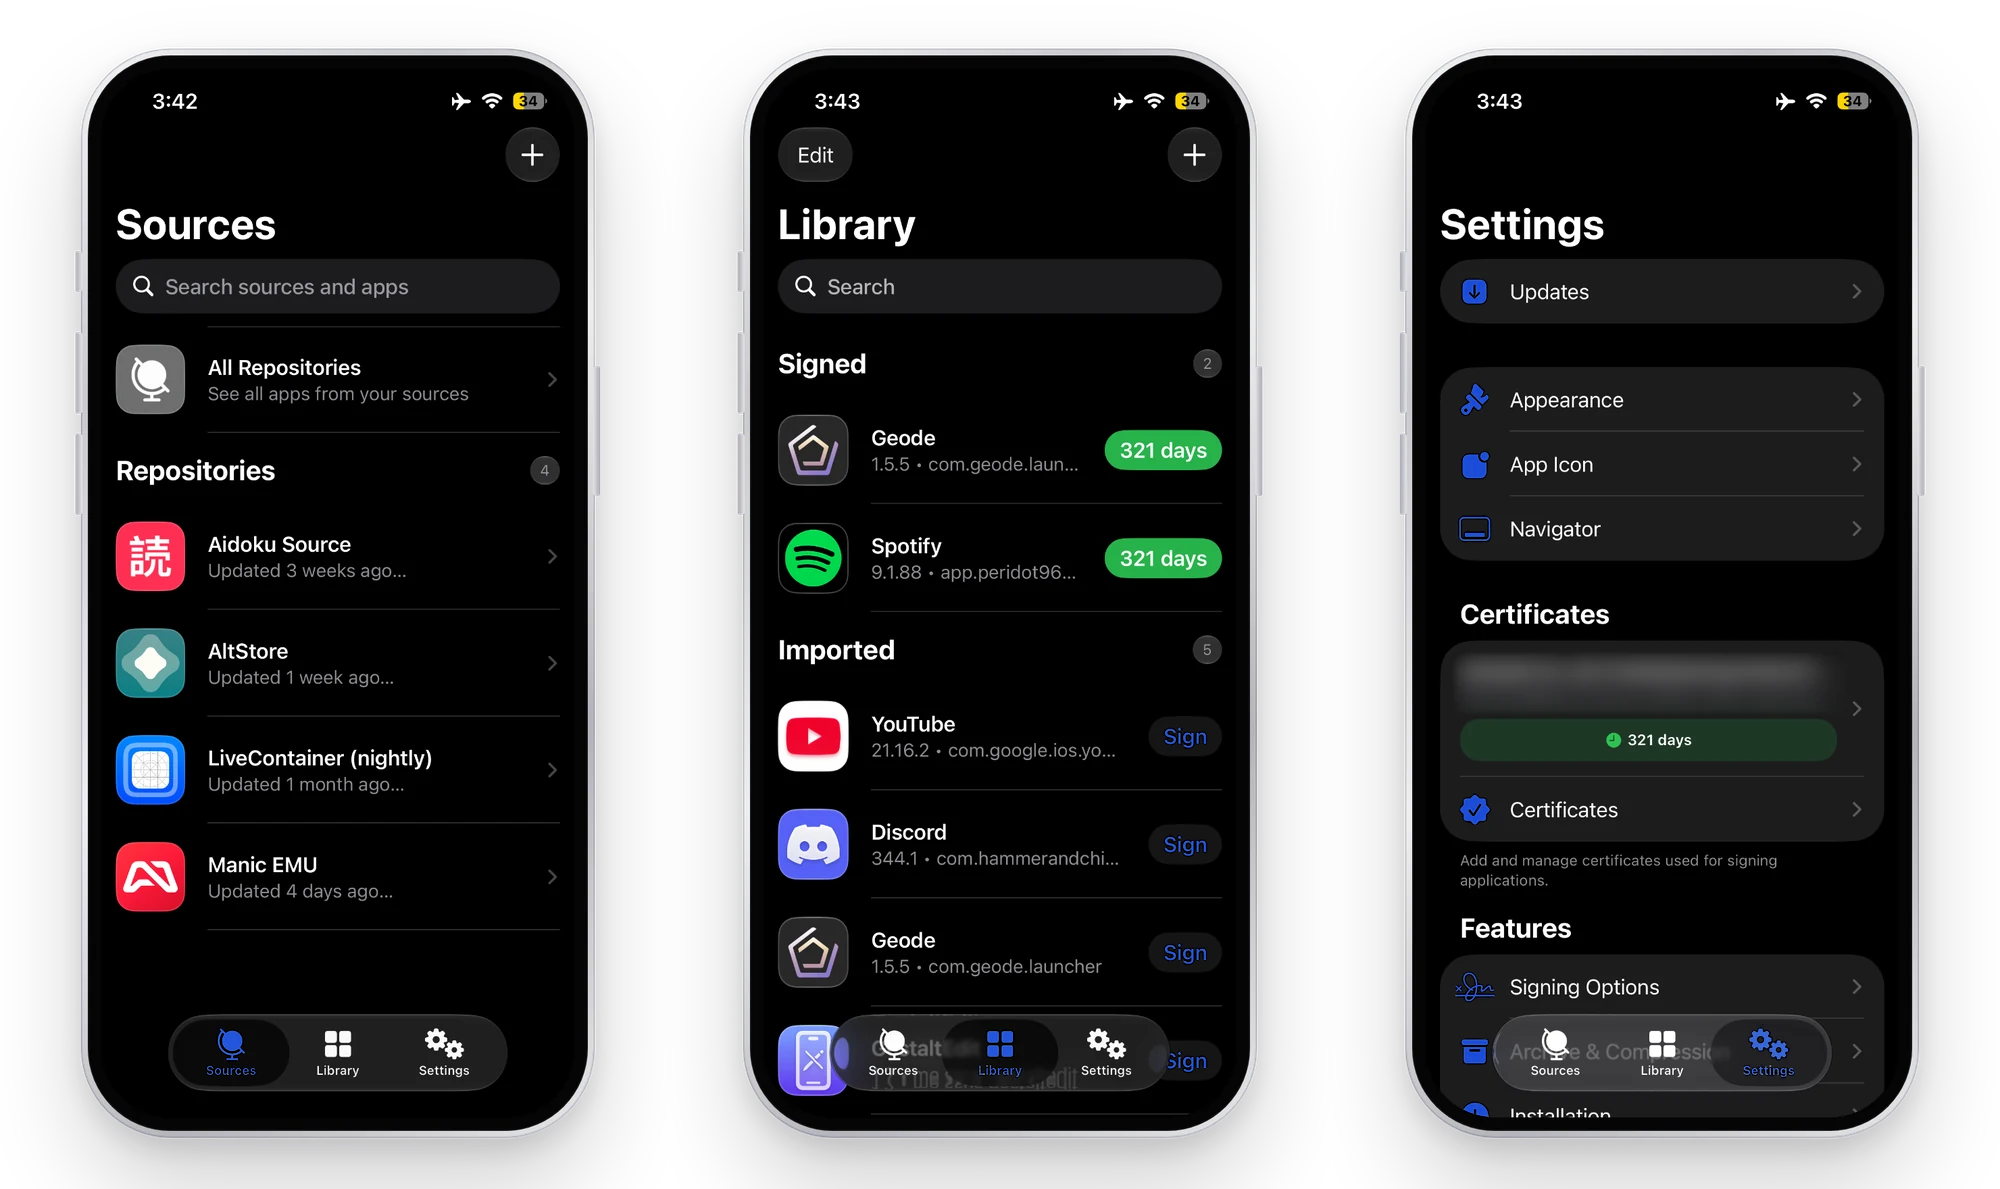
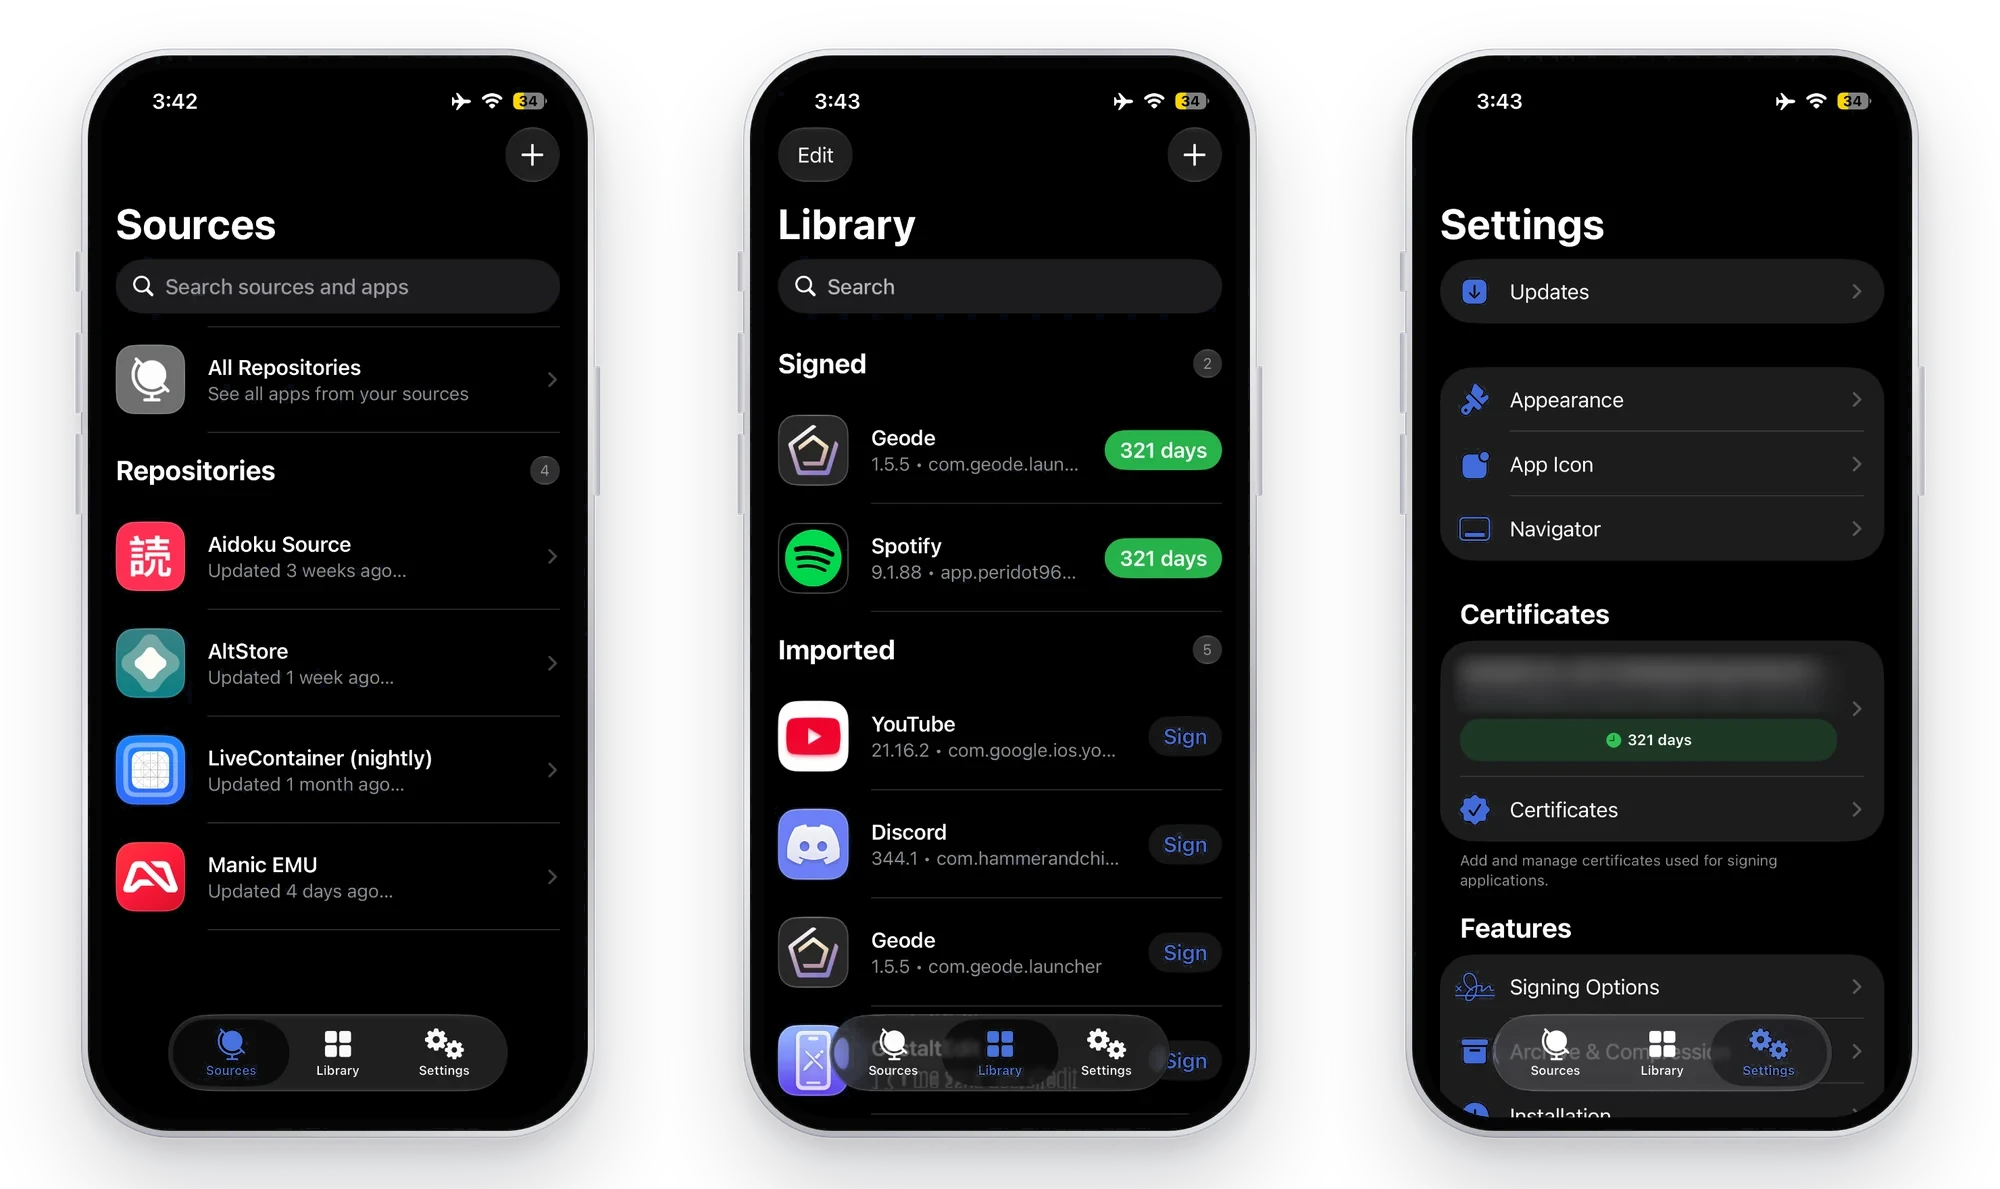
Switch the accent from deep blue to Cornflower
The default tint goes from #1D4ED8 to #5B85F0 in the app, widgets,
Live Activities, app icon gradient, README badges and website. The icon
and website images are recolored to match. Anyone on the old default is
moved to the new one, and "Deep Blue" stays available in Appearance.

Claude-Session: https://claude.ai/code/session_01ABLsRBC4XJowNWtyXUQB5f

diff --git a/Quill/App/QuillApp.swift b/Quill/App/QuillApp.swift
@@ -54,7 +54,14 @@ struct QuillApp: App {
 					}
 					UserDefaults.standard.set(true, forKey: "Feather.migratedQuillTint")
 				}
-				UIApplication.topViewController()?.view.window?.tintColor = UIColor(Color(hex: UserDefaults.standard.string(forKey: "Feather.userTintColor") ?? "#1D4ED8"))
+				// Anyone still on the old deep blue default moves to the new Cornflower default
+				if !UserDefaults.standard.bool(forKey: "Feather.migratedCornflowerTint") {
+					if UserDefaults.standard.string(forKey: "Feather.userTintColor")?.lowercased() == "#1d4ed8" {
+						UserDefaults.standard.removeObject(forKey: "Feather.userTintColor")
+					}
+					UserDefaults.standard.set(true, forKey: "Feather.migratedCornflowerTint")
+				}
+				UIApplication.topViewController()?.view.window?.tintColor = UIColor(Color(hex: UserDefaults.standard.string(forKey: "Feather.userTintColor") ?? "#5B85F0"))
 				UIApplication.topViewController()?.view.window?.tintAdjustmentMode = .normal
 				_offerCrashLogsIfNeeded()
 				LiveProgressActivity.shared.start()

diff --git a/QuillWidgets/HomeWidgets.swift b/QuillWidgets/HomeWidgets.swift
@@ -8,7 +8,7 @@ struct SnapshotEntry: TimelineEntry {
 	static let preview = SnapshotEntry(
 		date: Date(),
 		snapshot: WidgetSnapshot(
-			tint: "#1D4ED8",
+			tint: "#5B85F0",
 			certificate: .init(name: "My Certificate", expiration: Date().addingTimeInterval(86400 * 214), revoked: false),
 			signedCount: 6,
 			importedCount: 3,
@@ -382,7 +382,7 @@ extension Color {
 		if cleaned.count == 6, let value = UInt64(cleaned, radix: 16) {
 			self.init(red: Double((value >> 16) & 0xFF) / 255, green: Double((value >> 8) & 0xFF) / 255, blue: Double(value & 0xFF) / 255)
 		} else {
-			self.init(red: 0.114, green: 0.306, blue: 0.847)
+			self.init(red: 0.357, green: 0.522, blue: 0.941)
 		}
 	}
 

diff --git a/Quill/Features/Library/LibraryCellView.swift b/Quill/Features/Library/LibraryCellView.swift
@@ -5,7 +5,7 @@ import NimbleViews
 struct LibraryCellView: View {
 	@Environment(\.horizontalSizeClass) private var horizontalSizeClass
 	@Environment(\.editMode) private var editMode
-	@AppStorage("Feather.userTintColor") private var _tintHex: String = "#1D4ED8"
+	@AppStorage("Feather.userTintColor") private var _tintHex: String = "#5B85F0"
 	@ObservedObject private var github = GitHubReleases.shared
 	@ObservedObject private var updateManager = UpdateManager.shared
 	@State private var _signedUpdateConfirmation: AppUpdate?

diff --git a/Quill/Shared/Components/FRAppIconView.swift b/Quill/Shared/Components/FRAppIconView.swift
@@ -63,7 +63,7 @@ struct FRAppIconView: View {
 	@Environment(\.colorScheme) private var colorScheme
 	@StateObject private var loader = FRAppIconLoader()
 
-	@AppStorage("Feather.userTintColor") private var selectedColorHex: String = "#1D4ED8"
+	@AppStorage("Feather.userTintColor") private var selectedColorHex: String = "#5B85F0"
 	@AppStorage("Feather.shouldTintIcons") private var shouldTintIcons: Bool = false
 	@AppStorage("Feather.shouldChangeIconsBasedOffStyle") private var shouldChangeIconsBasedOffStyle: Bool = false
 

diff --git a/Quill/Features/Settings/Appearance/AppearanceTintColorView.swift b/Quill/Features/Settings/Appearance/AppearanceTintColorView.swift
@@ -1,9 +1,10 @@
 import SwiftUI
 
 struct AppearanceTintColorView: View {
-	@AppStorage("Feather.userTintColor") private var _selectedColorHex: String = "#1D4ED8"
+	@AppStorage("Feather.userTintColor") private var _selectedColorHex: String = "#5B85F0"
 	private let _tintOptions: [(name: String, hex: String)] = [
-		("Default", 		"#1D4ED8"),
+		("Default", 		"#5B85F0"),
+		("Deep Blue", 		"#1D4ED8"),
 		("Classic", 		"#848ef9"),
 		("V2", 				"#B496DC"),
 		("Berry",   		"#ff7a83"),

diff --git a/Quill/Services/Widgets/LiveActivity/LiveProgressActivity.swift b/Quill/Services/Widgets/LiveActivity/LiveProgressActivity.swift
@@ -156,7 +156,7 @@ final class LiveProgressActivity {
 			detail: snapshot.detail,
 			fraction: snapshot.fraction,
 			symbol: snapshot.symbol,
-			tint: UserDefaults.standard.string(forKey: "Feather.userTintColor") ?? "#1D4ED8",
+			tint: UserDefaults.standard.string(forKey: "Feather.userTintColor") ?? "#5B85F0",
 			others: max(0, snapshot.others),
 			finished: snapshot.finished
 		)

diff --git a/Quill/Services/Widgets/WidgetDataWriter.swift b/Quill/Services/Widgets/WidgetDataWriter.swift
@@ -53,7 +53,7 @@ final class WidgetDataWriter {
 		}
 
 		return WidgetSnapshot(
-			tint: UserDefaults.standard.string(forKey: "Feather.userTintColor") ?? "#1D4ED8",
+			tint: UserDefaults.standard.string(forKey: "Feather.userTintColor") ?? "#5B85F0",
 			certificate: certificate,
 			signedCount: signed.count,
 			importedCount: importedCount,

diff --git a/website/index.html b/website/index.html
@@ -53,12 +53,12 @@
 :root {
   --bg: #ffffff;
   --soft: #f5f5f7;
-  --tint: #eef3fe;
+  --tint: #eff3fe;
   --text: #1d1d1f;
   --text-2: #6e6e73;
   --line: rgba(0, 0, 0, 0.08);
-  --accent: #1d4ed8;
-  --accent-deep: #1e40af;
+  --accent: #5b85f0;
+  --accent-deep: #4768be;
   --ease: cubic-bezier(0.22, 1, 0.36, 1);
   color-scheme: light;
 }

diff --git a/Quill/Features/Settings/Appearance/AppearanceView.swift b/Quill/Features/Settings/Appearance/AppearanceView.swift
@@ -20,7 +20,7 @@ struct AppearanceView: View {
 	]
 
 	@AppStorage("Feather.userTintColor")
-	private var _selectedColorHex: String = "#1D4ED8"
+	private var _selectedColorHex: String = "#5B85F0"
 
 	@State private var _currentIcon: String? = UIApplication.shared.alternateIconName
 

diff --git a/.github/README.md b/.github/README.md
@@ -5,10 +5,10 @@
 
 **Sign and install apps on your iPhone or iPad with your own developer certificate. No computer needed, and it updates itself.**
 
-[![Latest release](https://img.shields.io/github/v/release/NuzProjects/Quill?label=release&color=1D4ED8)](https://github.com/NuzProjects/Quill/releases/latest)
-[![Downloads](https://img.shields.io/github/downloads/NuzProjects/Quill/total?label=downloads&color=1D4ED8&cacheSeconds=3600)](https://github.com/NuzProjects/Quill/releases)
-[![Stars](https://img.shields.io/github/stars/NuzProjects/Quill?style=flat&color=1D4ED8)](https://github.com/NuzProjects/Quill/stargazers)
-[![License](https://img.shields.io/github/license/NuzProjects/Quill?color=1D4ED8)](https://github.com/NuzProjects/Quill/blob/main/LICENSE)
+[![Latest release](https://img.shields.io/github/v/release/NuzProjects/Quill?label=release&color=5B85F0)](https://github.com/NuzProjects/Quill/releases/latest)
+[![Downloads](https://img.shields.io/github/downloads/NuzProjects/Quill/total?label=downloads&color=5B85F0&cacheSeconds=3600)](https://github.com/NuzProjects/Quill/releases)
+[![Stars](https://img.shields.io/github/stars/NuzProjects/Quill?style=flat&color=5B85F0)](https://github.com/NuzProjects/Quill/stargazers)
+[![License](https://img.shields.io/github/license/NuzProjects/Quill?color=5B85F0)](https://github.com/NuzProjects/Quill/blob/main/LICENSE)
 
 <p align="center"><picture><source media="(prefers-color-scheme: dark)" srcset="demo-dark.png"><source media="(prefers-color-scheme: light)" srcset="demo-light.png"><img alt="Quill" src="demo-light.png"></picture></p>
 

diff --git a/.github/release-notes.md b/.github/release-notes.md
@@ -1,6 +1,5 @@
-## Update 1.3.6
+## Update 1.3.7
 
-**New Features:**
-* Feather is now Quill. The app name, Live Activity titles, signing progress and alternate icon names use the new name. Your certificates, apps and settings stay where they are
-* Get a Certificate can sign in with your Apple ID, as well as use a trusted certificate provider, from Settings → Certificates
-* New deep blue look across the app icon, alternate icons, widgets and artwork
+**Changes:**
+* New softer Cornflower blue look across the app tint, app icon, alternate icons, widgets, Live Activities and artwork
+* If you were using the old deep blue default, you move to Cornflower automatically. The old color is still in Settings → Appearance as "Deep Blue"
